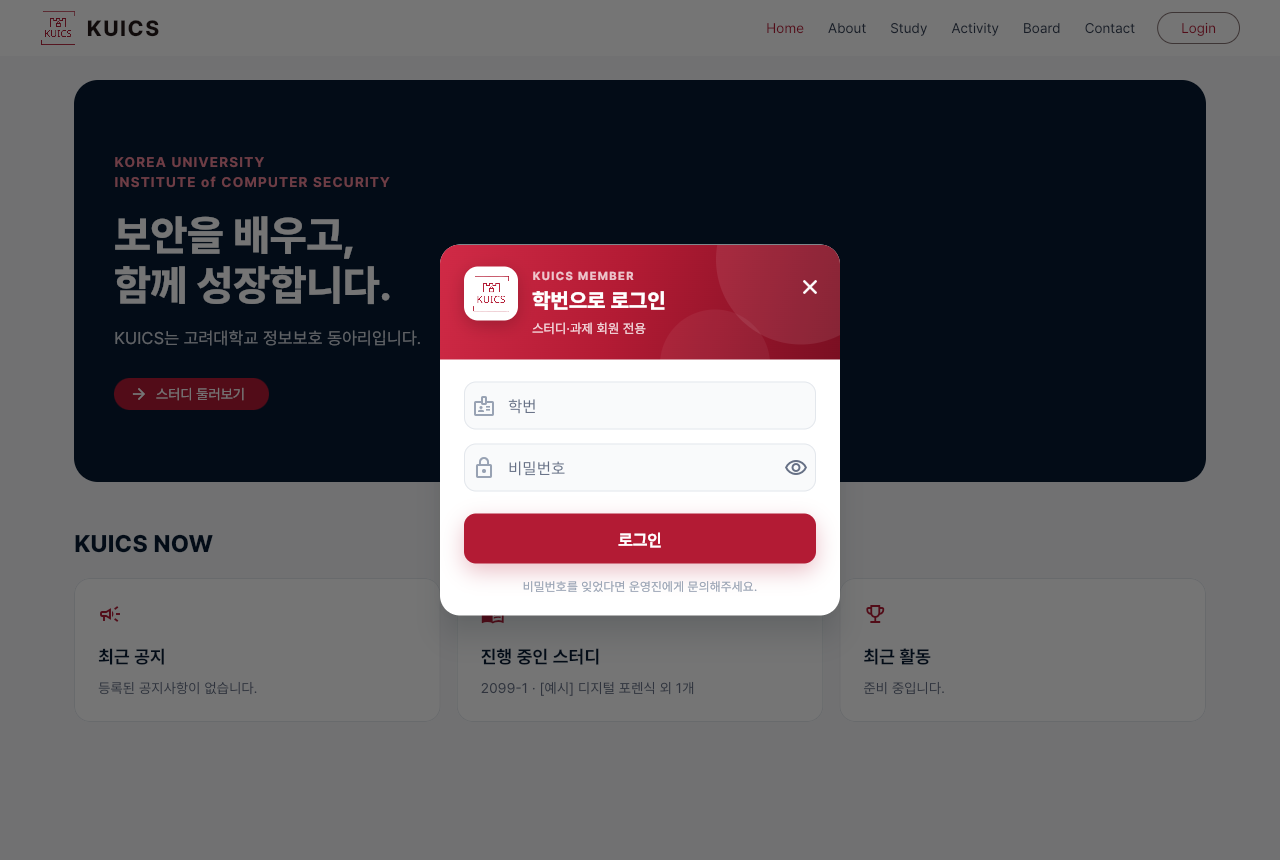
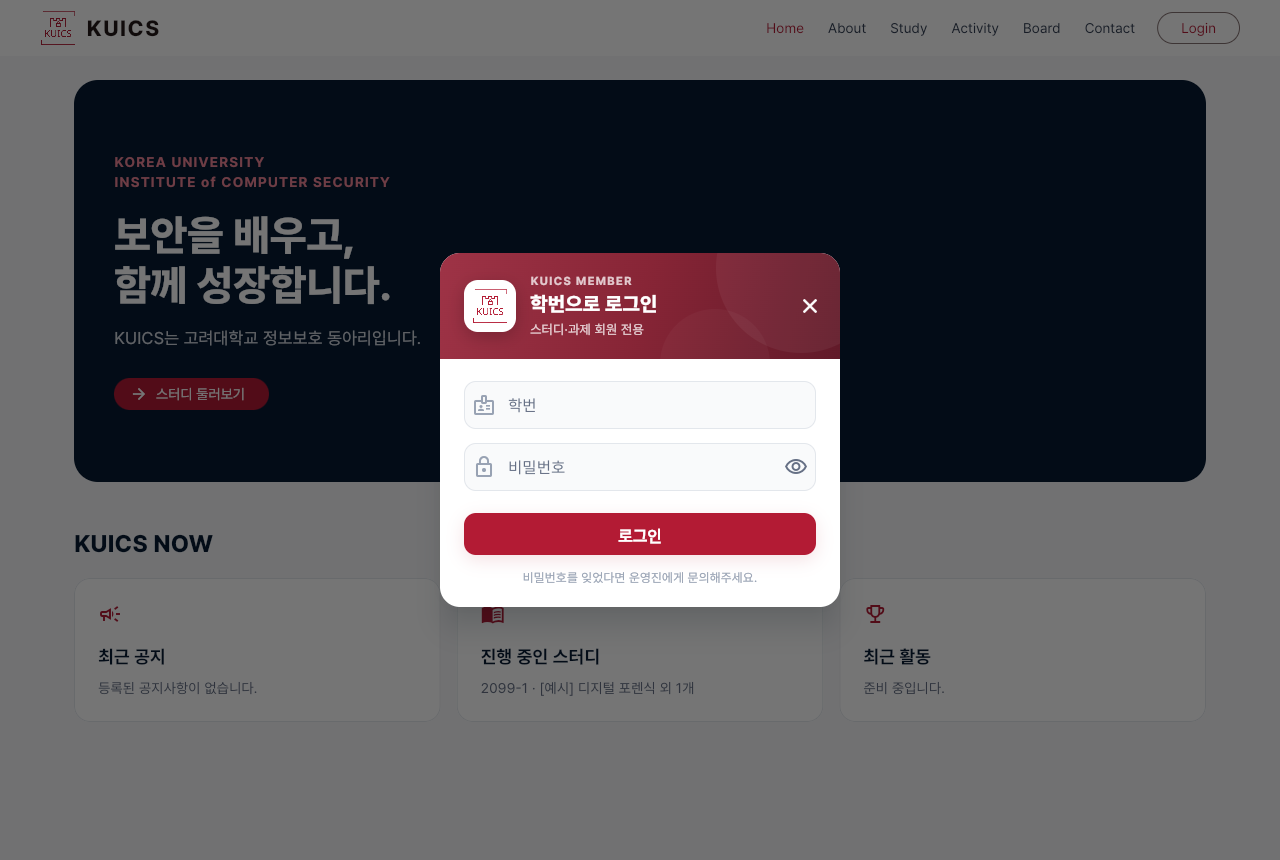
fix: 창(모달) 공통 색을 차분하게 조정 (너무 쨍하다는 의견)
- 머리 그라데이션을 채도·명도를 낮춘 짙은 크림슨(#9E3346 → #872536 → #611A29)으로 변경
- 머리 빛 원·설명 글자 투명도, 주 버튼 그림자 세기를 낮춤
- 안내·오류 상자 글자·아이콘·테두리를 차분한 크림슨(#93303F)으로, 입력칸 초점 테두리 1.4
- 날짜 선택창 머리도 같은 짙은 크림슨으로 맞춤
- 브랜드 크림슨과 버튼 색은 유지, 문서 캡처를 조정 후 모습으로 교체

diff --git a/frontend/lib/widgets/app_dialog.dart b/frontend/lib/widgets/app_dialog.dart
@@ -128,14 +128,18 @@ class _DialogHeader extends StatelessWidget {
             gradient: LinearGradient(
               begin: Alignment.topLeft,
               end: Alignment.bottomRight,
-              colors: [Color(0xFFD02A46), AppColors.crimson, Color(0xFF7A0F22)],
-              stops: [0, 0.45, 1],
+              colors: [
+                AppColors.crimsonDeepTop,
+                AppColors.crimsonDeep,
+                AppColors.crimsonDeepBottom,
+              ],
+              stops: [0, 0.5, 1],
             ),
           ),
           child: Stack(
             children: [
-              Positioned(right: -46, top: -70, child: _glow(170, 22)),
-              Positioned(right: 70, bottom: -60, child: _glow(110, 14)),
+              Positioned(right: -46, top: -70, child: _glow(170, 13)),
+              Positioned(right: 70, bottom: -60, child: _glow(110, 8)),
               Padding(
                 padding: EdgeInsets.fromLTRB(24, 20, closable ? 10 : 24, 20),
                 child: Row(
@@ -199,7 +203,7 @@ class _DialogHeader extends StatelessWidget {
                                 maxLines: 2,
                                 overflow: TextOverflow.ellipsis,
                                 style: TextStyle(
-                                  color: Colors.white.withAlpha(215),
+                                  color: Colors.white.withAlpha(200),
                                   fontSize: 13,
                                 ),
                               ),
@@ -250,19 +254,19 @@ class DialogCallout extends StatelessWidget {
           color: AppColors.crimsonSoft,
           borderRadius: BorderRadius.circular(12),
           border: Border.all(
-            color: AppColors.crimson.withAlpha(strong ? 110 : 45),
+            color: AppColors.crimsonMuted.withAlpha(strong ? 70 : 32),
           ),
         ),
         child: Row(
           crossAxisAlignment: CrossAxisAlignment.start,
           children: [
-            Icon(icon, size: 18, color: AppColors.crimson),
+            Icon(icon, size: 18, color: AppColors.crimsonMuted),
             const SizedBox(width: 8),
             Expanded(
               child: Text(
                 message,
                 style: const TextStyle(
-                  color: AppColors.crimson,
+                  color: AppColors.crimsonMuted,
                   fontSize: 13.5,
                   fontWeight: FontWeight.w600,
                   height: 1.35,
@@ -302,9 +306,9 @@ class DialogPrimaryButton extends StatelessWidget {
         borderRadius: BorderRadius.circular(12),
         boxShadow: [
           BoxShadow(
-            color: AppColors.crimson.withAlpha(active ? 70 : 0),
-            blurRadius: 18,
-            offset: const Offset(0, 8),
+            color: AppColors.crimson.withAlpha(active ? 34 : 0),
+            blurRadius: 14,
+            offset: const Offset(0, 5),
           ),
         ],
       ),
@@ -419,7 +423,7 @@ InputDecoration dialogFieldDecoration(
     border: outline(AppColors.border),
     enabledBorder: outline(AppColors.border),
     disabledBorder: outline(AppColors.borderLight),
-    focusedBorder: outline(AppColors.crimson, 1.6),
+    focusedBorder: outline(AppColors.crimson, 1.4),
     errorBorder: outline(error),
     focusedErrorBorder: outline(error, 1.6),
   );

diff --git a/frontend/lib/theme.dart b/frontend/lib/theme.dart
@@ -7,6 +7,14 @@ class AppColors {
   static const navy = Color(0xFF071B33);
   static const crimson = Color(0xFFB31B34);
   static const crimsonSoft = Color(0xFFFBEAEC);
+
+  // 창(모달) 머리처럼 넓은 면에 칠하는 크림슨. 원색보다 채도·명도를 낮춰 눈이 덜 부시게 한다.
+  static const crimsonDeepTop = Color(0xFF9E3346);
+  static const crimsonDeep = Color(0xFF872536);
+  static const crimsonDeepBottom = Color(0xFF611A29);
+
+  /// 연크림슨 바탕 위 글자·아이콘용 차분한 크림슨.
+  static const crimsonMuted = Color(0xFF93303F);
   static const background = Color(0xFFF6F7F9);
   static const border = Color(0xFFE3E7EC);
   static const borderLight = Color(0xFFEAECF0);
@@ -88,7 +96,7 @@ ThemeData buildAppTheme(TextTheme base) => ThemeData(
         shape: const RoundedRectangleBorder(
           borderRadius: BorderRadius.all(Radius.circular(20)),
         ),
-        headerBackgroundColor: AppColors.crimson,
+        headerBackgroundColor: AppColors.crimsonDeep,
         headerForegroundColor: Colors.white,
         dividerColor: AppColors.borderLight,
         todayBorder: const BorderSide(color: AppColors.crimson),

diff --git a/docs/plans/2026-09-14-dialog-design-system.md b/docs/plans/2026-09-14-dialog-design-system.md
@@ -85,3 +85,24 @@
 | 날짜 · 시각 선택창 | ![](../reports/images/modal_date_picker.png) ![](../reports/images/modal_time_picker.png) |
 | 마이페이지 · 회차 · 참여 상태 메뉴 | ![](../reports/images/modal_menu_mypage.png) ![](../reports/images/modal_menu_session.png) ![](../reports/images/modal_menu_status.png) |
 | 360px 과제 등록 · 삭제 확인 | ![](../reports/images/modal_phone_assignment.png) ![](../reports/images/modal_phone_confirm.png) |
+
+## 색 조정 (2026-09-14, "너무 쨍하다"는 의견)
+
+모든 창에 공통으로 적용한다. 브랜드 크림슨(`#B31B34`)과 버튼 색은 유지하고, 넓게 칠해지는 면과 효과만 한 단계 낮춘다.
+
+| 항목 | 전 | 후 |
+|---|---|---|
+| 머리 그라데이션 | `#D02A46 → #B31B34 → #7A0F22` | `#9E3346 → #872536 → #611A29` (채도·명도 낮춤) |
+| 머리 빛 원 투명도 | 22 / 14 | 13 / 8 |
+| 머리 설명 글자 | 흰색 84% | 흰색 78% |
+| 주 버튼 그림자 | 크림슨 27%, 흐림 18, 아래 8 | 크림슨 13%, 흐림 14, 아래 5 |
+| 안내·오류 상자 글자·아이콘 | `#B31B34` | `#93303F` |
+| 안내·오류 상자 테두리 | 18% / 오류 43% | 13% / 오류 27% |
+| 입력칸 초점 테두리 | 1.6 | 1.4 |
+| 날짜 선택창 머리 | `#B31B34` | `#872536` |
+
+| 전 | 후 |
+|---|---|
+| ![](../reports/images/modal_confirm_delete_before_tone.png) | ![](../reports/images/modal_confirm_delete.png) |
+
+확인: 위젯 테스트 59개, 실제 브라우저 창·메뉴·선택창 16개와 로그인 창 13개 모두 통과. 캡처는 이 문서와 로그인 창 계획 문서의 이미지가 모두 조정 후 모습으로 바뀌었다.
